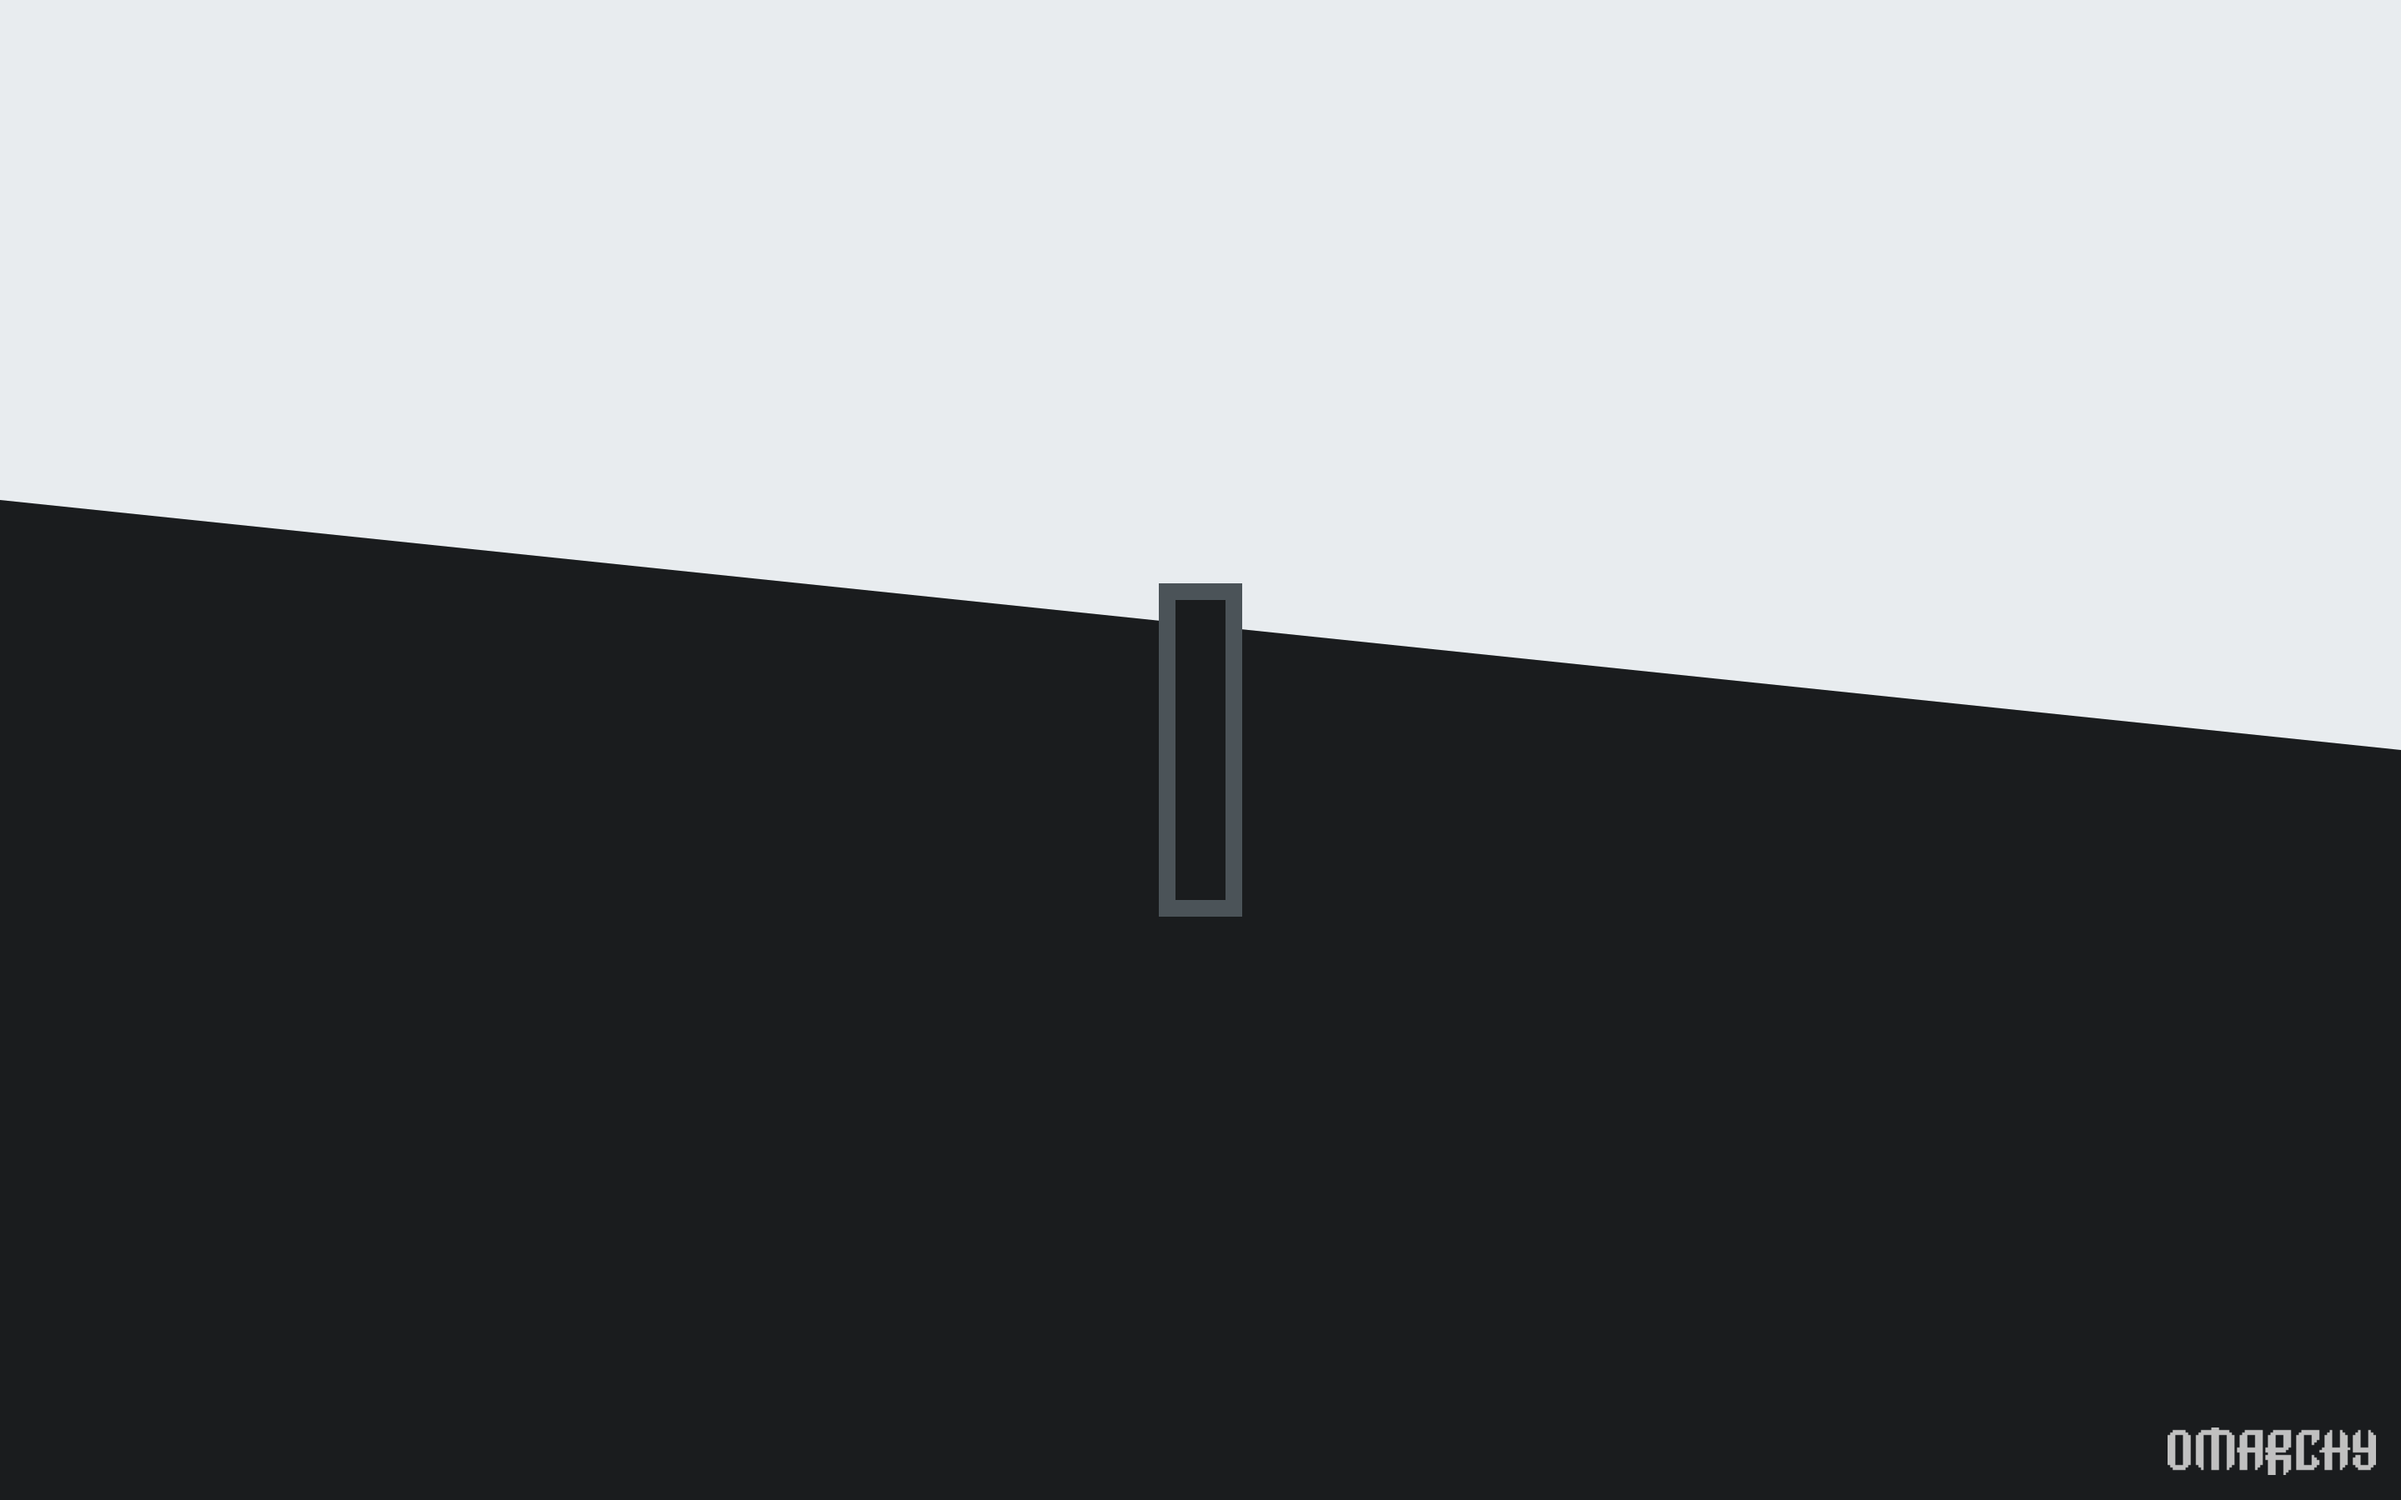
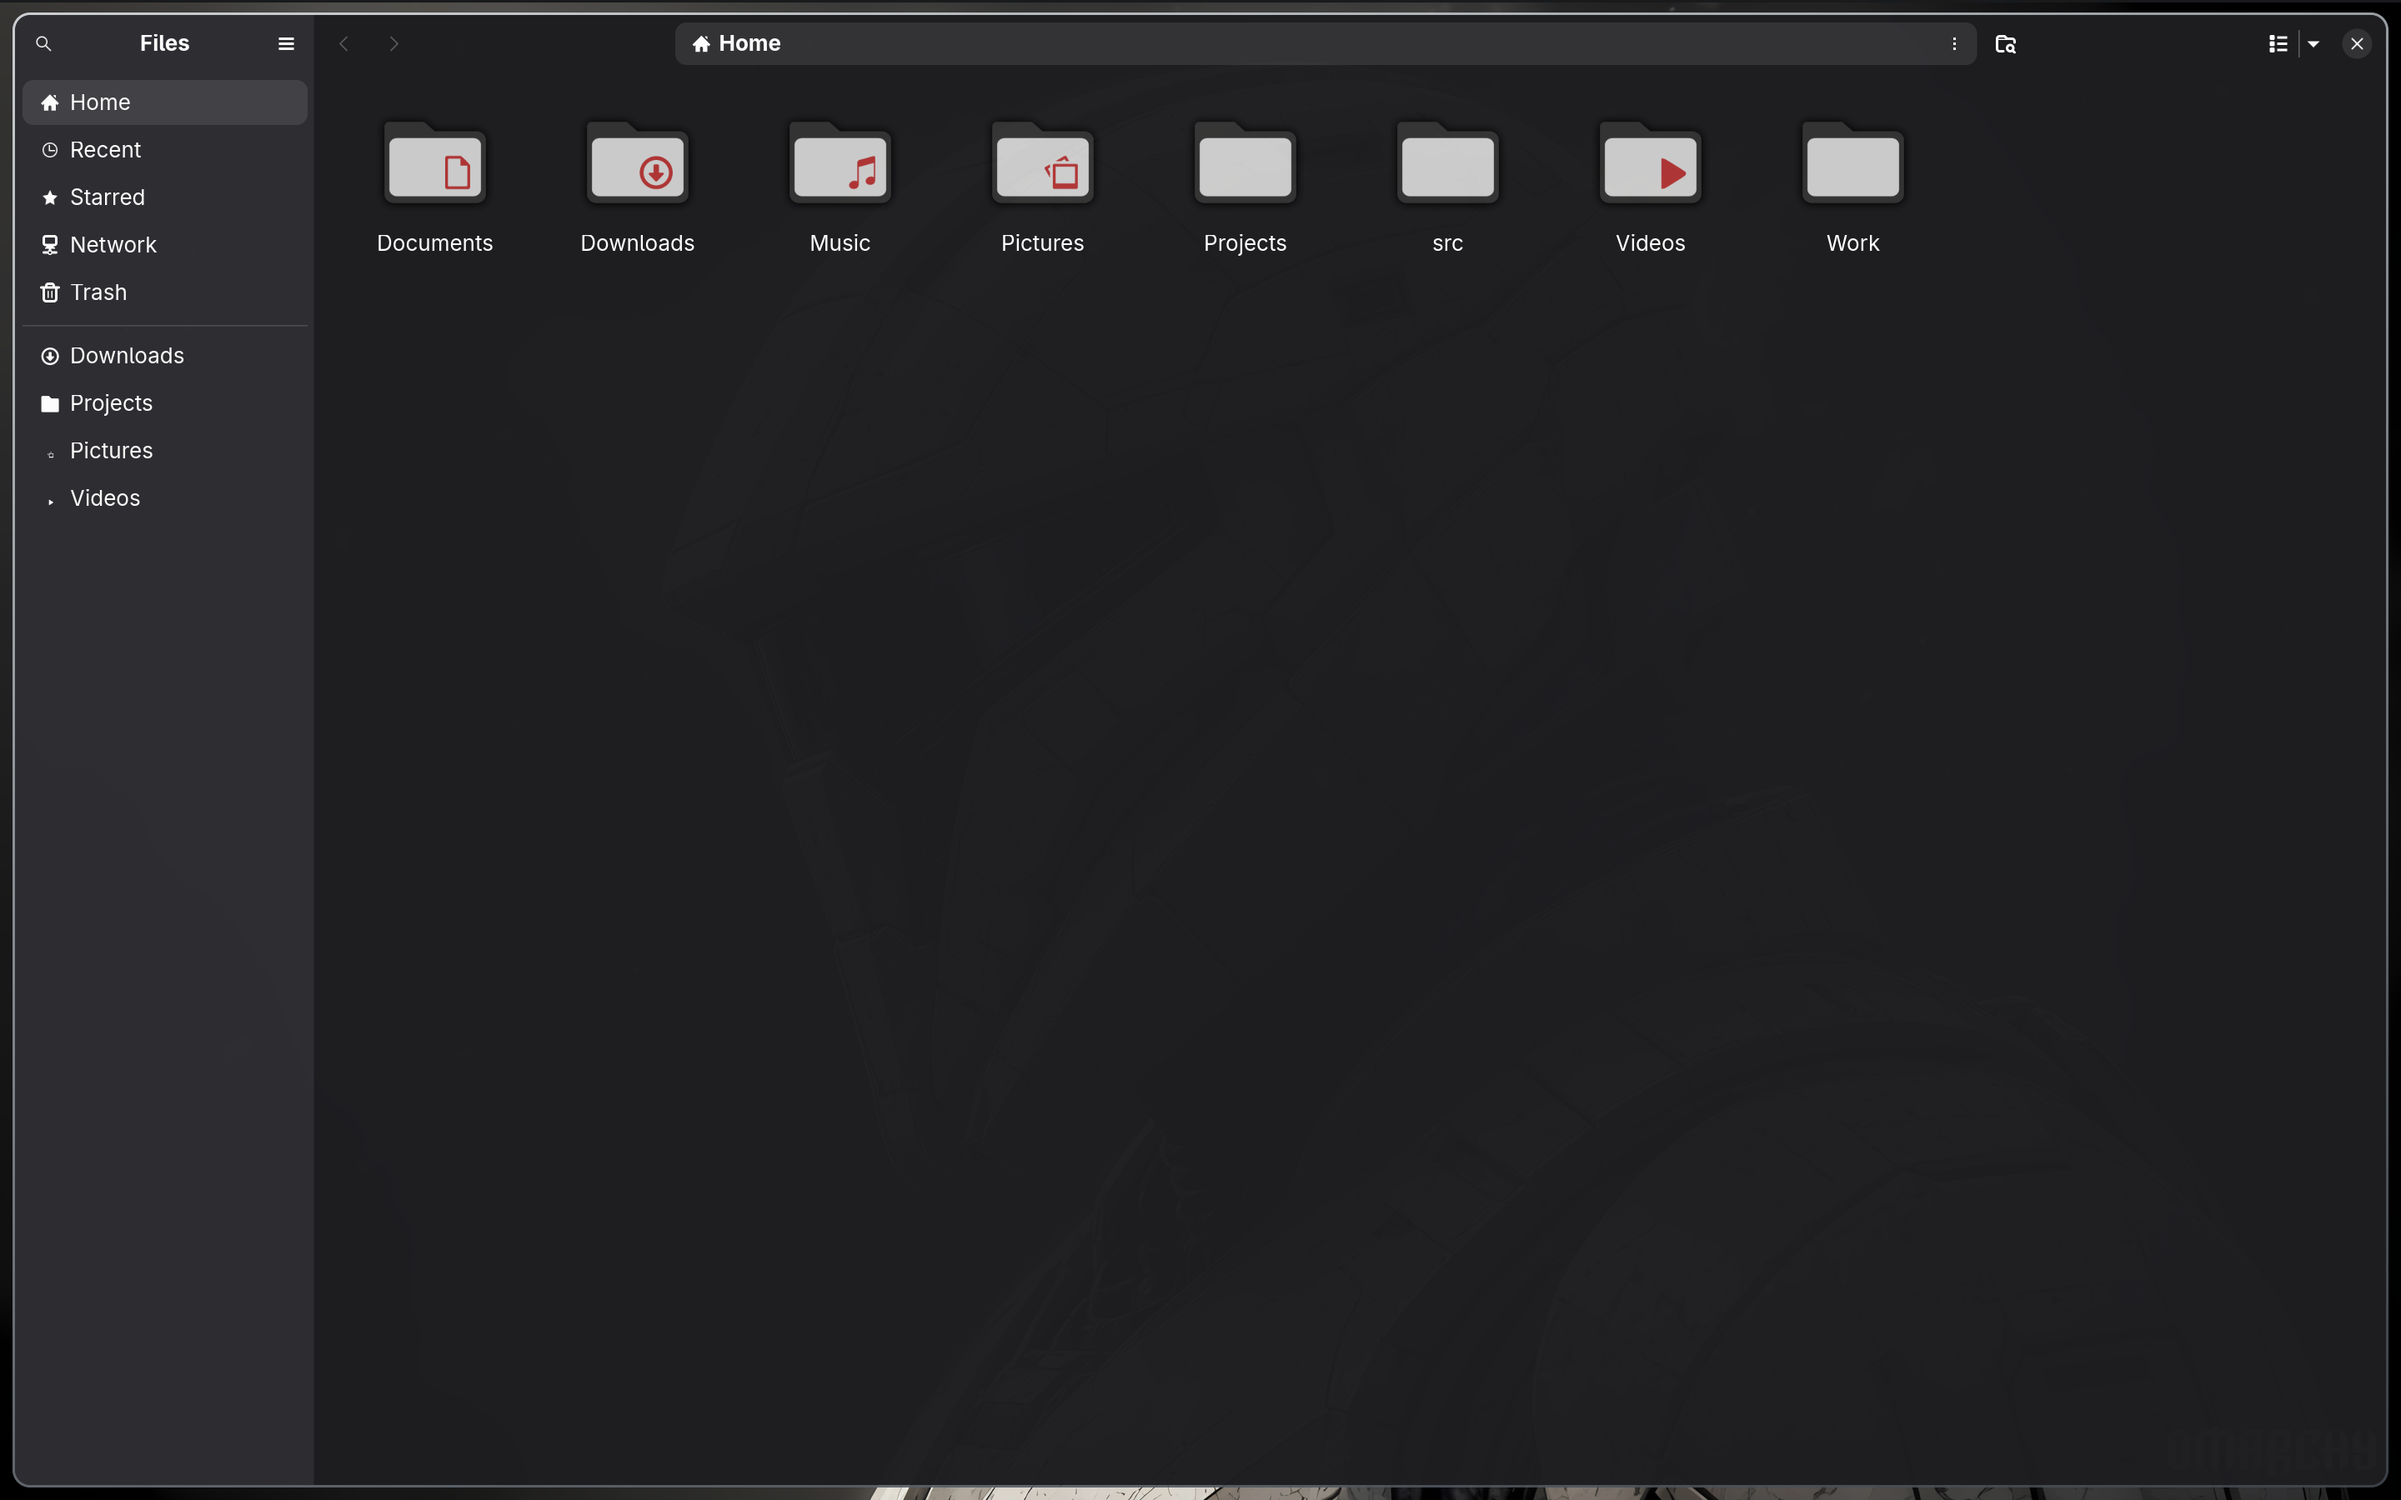
docs: add theme screenshots and update preview asset

diff --git a/README.md b/README.md
@@ -49,6 +49,13 @@ omarchy theme set stormtrooper
 - **Window Manager**: Hyprland (with Lua configuration parser).
 - **Dependencies**: imagemagick (for dynamic asset adjustments and wordmark composite generation).
 
+
+## Gallery
+
+| Tiled Workspace | Application Overview |
+| :---: | :---: |
+| <img src="screenshots/screenshot-2026-09-06_08-04-16.png" width="380" /> | <img src="screenshots/screenshot-2026-09-06_08-03-03.png" width="380" /> |
+
 ## Credits and License
 
 - **Aesthetic**: Inspired by Star Wars Imperial aesthetics (Lucasfilm Ltd. IP / Fair Use Notice).
